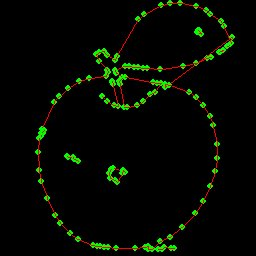
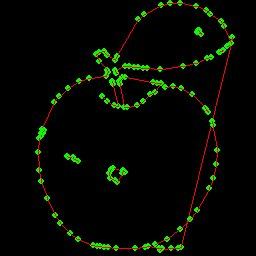
now includes fancy voroni/delaune (?) graph thing

Changed region(s): [[0.5625, 0.125, 0.9375, 1.0], [0.7188, 0.25, 0.7812, 0.2812], [0.7812, 0.2188, 0.8125, 0.25]]

diff --git a/vectorize.py b/vectorize.py
@@ -28,6 +28,7 @@
 
 import sys
 def cw(text, curr, max):
+   '''console status output function'''
    print "%s [%3i] %i of %i   \r"%(text,100*curr/max,curr,max),
 
    if curr >= max-1:
@@ -36,7 +37,7 @@ def cw(text, curr, max):
    sys.stdout.flush()
 
 def show_image(display, img, reloc):
-
+      '''shifts images in display and adds the new one ; fifo-like'''
       w,h = 3,3
 
       d = display.get_size()
@@ -328,7 +329,7 @@ def blend(img1,img2):
    return img_out
 
 def addmul(img1,img2,m=1,n=1):
-   '''take max val for each pixel from each image'''
+   '''img1 *n + img2*m'''
    width,height = img1.get_size()
    img_out = pygame.Surface(img1.get_size())
    for y in range(0,height):
@@ -384,8 +385,7 @@ def find_pixel_with_color(img_in, color):
    return False
 
 def find_brightest_pixel(img_in):
-   '''returns the 1st coordinate of a pixel of specified color'''
-
+   '''returns the coordinate of brightest pixel found'''
 
    maxbr = 0
    maxpos = False
@@ -402,7 +402,7 @@ def find_brightest_pixel(img_in):
 
 
 def find_brightest_pixel_with_spiral(img_in,startpos,maxlen,startang):
-   '''returns the 1st coordinate of a pixel of specified color'''
+   '''returns the coordinate of brightest pixel in spiral described by startpos, maxlen, startang'''
    width,height = img_in.get_size()
 
    maxbr = 0
@@ -452,13 +452,23 @@ def floodfill(img_in,startpos,color):
    return pixelcounter
 
 def id_to_color(id):
+   '''calculated unique color from id'''
    return (id%254+1,(id/254)%255,(id/254/255)%255)
 
+def angle_to_color(angle,length=1):
+   '''calculates color based on anlge'''
+   r = int(lcol( (math.sin(angle*2*math.pi/360)+1)*0.5*255*length ))
+   g = int(lcol( (math.sin((angle+120)*2*math.pi/360)+1)*0.5*255*length ))
+   b = int(lcol( (math.sin((angle+240)*2*math.pi/360)+1)*0.5*255*length ))
+   return [r,g,b]
+
 def color_to_id(color):
+   '''calculated unique id from color'''
    return color[0]-1 + color[1]*255 + color[2]*255*255
 
 
 def mask(img_in, color_mask):
+   '''create mask (if color at pixel = function parameter white, else black)'''
    width,height = img_in.get_size()
    img_out = pygame.Surface(img_in.get_size())
    for y in range(0,height):
@@ -473,6 +483,7 @@ def mask(img_in, color_mask):
    return img_out
 
 def get_avg_color(img_in, mask):
+   '''get average color for mask area'''
    width,height = img_in.get_size()
    color_avg_sum = [0,0,0]
    color_avg_cnt = 0
@@ -490,14 +501,14 @@ def get_avg_color(img_in, mask):
    return [color_avg_sum[0]/color_avg_cnt, color_avg_sum[1]/color_avg_cnt, color_avg_sum[2]/color_avg_cnt]
 
 
-
-
 def gen_single_color(size, color):
+   '''generates image with single color'''
    img_out = pygame.Surface(size)
    img_out.fill(color)
    return img_out
 
 def multiply(img_in1, img_in2):
+   '''img1 * img2'''
    width,height = img_in1.get_size()
    img_out = pygame.Surface(img_in1.get_size())
    for y in range(0,height):
@@ -542,7 +553,7 @@ def motionprobe(img_in,mask,pos,radius,angle,shift):
    return correlation_sum/correlation_count
 
 def motionfind(img_in,mask,pos,radius):
-
+   '''for one pos, run motionprobe for different angles/shifts'''
 
    cor_list = []
 
@@ -594,8 +605,6 @@ def motionsfind(img_in, mask, radius):
 def edgewalk(img):
    '''in image showing edges, walks along the edge and creates a polygon path'''
 
-
-
    img_clone = pygame.Surface(img.get_size())
    img_clone.blit(img,(0,0))
 
@@ -621,12 +630,12 @@ def edgewalk(img):
          position, br = find_brightest_pixel_with_spiral(img_clone,position,radius+3,angle2)
          if not position or br < brightness_min:
             break
-         lastdistance = math.pow(math.pow(position[0]-path[-1][0],2) + math.pow(position[1]-path[-1][1],2),0.5)
-         lastangle = 360
-         if len(path)>1:
-            angle1 = math.atan2(position[1]-path[-1][1],position[0]-path[-1][0])
+         #lastdistance = math.pow(math.pow(position[0]-path[-1][0],2) + math.pow(position[1]-path[-1][1],2),0.5)
+         #lastangle = 360
+         #if len(path)>1:
+         #   angle1 = math.atan2(position[1]-path[-1][1],position[0]-path[-1][0])
             angle2 = math.atan2(path[-1][1]-path[-2][1],path[-1][0]-path[-2][0])
-            lastangle = abs(angle1-angle2)*float(360)/(2*math.pi)
+         #   lastangle = abs(angle1-angle2)*float(360)/(2*math.pi)
             
          
          #if float(lastdistance)*lastangle > 1:
@@ -648,7 +657,82 @@ def edgewalk(img):
 
    return paths
 
+
+# for now returns the nearest vector. todo: interpolate 3 nearest points.
+def interpolate_motionvectors(motionvectors, position):
+   '''interpolates the given motion vectors for a specified target position'''
+
+   mindist = False
+   minvec = False
+   for v in motionvectors:
+      x,y = v[0]
+      distance = math.pow(math.pow(position[0]-x,2) + math.pow(position[1]-y,2),0.5)
+
+      if not mindist or distance < mindist :
+         mindist = distance
+         minvec = v
+
+   return minvec
+
+def motionvector_rainbow(motionvectors,size):
+   img = pygame.Surface(size)
+   
+   for y in range(0,size[1]):
+      cw("botionvector rainbow",y,size[1])
+      for x in range(0,size[0]):
+         v = interpolate_motionvectors(motionvectors,(x,y))
+         angle = v[1]
+         ampl = v[-1]
+         color = angle_to_color(angle,ampl)
+         img.set_at((x,y),color)
+   return img
+
+
+def facewalk(img_in, mask, motionvectors):
+   '''trace hatching paths'''
+   mask_clone = pygame.Surface(mask.get_size())
+   mask_clone.blit(mask,(0,0))
+
+   radius = 3
+
+   paths = []
+
+   width, height = mask_clone.get_size()
+
+   while True:
+      path = []
+      position = find_pixel_with_color(mask_clone,(255,255,255))
+      if not position:
+         break
+
+      path.append(position)
+
+      mask_clone.set_at(position,(0,0,0)) # deactivate pixel
+      # now, find next pixel
+      while True:
+         vector = interpolate_motionvectors(motionvectors,position)
+         angle = vector[1]
+         #print "!!!",vector
+         dp = [math.cos(angle*2*math.pi/360)*radius,math.sin(angle*2*math.pi/360)*radius]
+         position = [position[0]+int(dp[0]),position[1]+int(dp[1])]
+
+         if position[0]<0 or position[0]>width-1 or position[1]<0 or position[1]>height-1:
+            break
+         if mask_clone.get_at(position) == (0,0,0):
+            break
+         path.append(position)
+         mask_clone.set_at(position,(0,0,0))
+         #pygame.draw.circle(img_clone, (0,0,0), position, radius, 0)
+
+
+
+      paths.append(path)
+   return paths
+
+
+
 def optimizepaths(paths):
+   '''removes redundant polygon points, decrease count, increase error '''
    newpaths = []
    for path in paths:
       newpath = []
@@ -667,6 +751,7 @@ def optimizepaths(paths):
    return newpaths
 
 def pathcombiner(paths):
+   '''for all given paths, combine them if possible to reduce number and increase length'''
    # now we could check each start/end of every path and combine the two paths if they are closer together than a threshold
    # if start/end of same path are together closer than threshold but not equal, add first point to end to close the path
 
@@ -720,7 +805,6 @@ def pathcombiner(paths):
          if redo:
             break
 
-
       if not redo:
          newpaths = []
          for path in paths:
@@ -732,6 +816,7 @@ def pathcombiner(paths):
 
 
 def main():
+   '''main routine'''
    if len(sys.argv)==2: # 1 parameters
 
       pygame.init()
@@ -897,9 +982,12 @@ def main():
       motionvector_drawtmp = pygame.Surface(img_bnw.get_size())
 
 
+      motionvectorss = []
       for i in range(0,facecount):
          print "motion vector face %i"%i
          motionvectors = motionsfind(img_in, bolden(masks[i],5),10) # 10px radius
+         motionvectorss.append(motionvectors)
+
 
 
 
@@ -928,9 +1016,10 @@ def main():
 
             rel_cor = float(cor)/float(cormax)
             rel_corvar = float(corvar)/float(corvar_max)
+            ofs=ofs*(1-rel_cor) * rel_corvar
+            vector.append(ofs)
 
-            ofs=ofs*(1-rel_cor)*5 * rel_corvar
-
+            ofs+=5
 
             if ofs>0:
                endpos = math.cos(ang*2*math.pi/360)*ofs+pos[0],math.sin(ang*2*math.pi/360)*ofs+pos[1]
@@ -938,10 +1027,38 @@ def main():
 
          show_image(display, motionvector_drawtmp, True)
       save_image(motionvector_drawtmp,"vector-"+sys.argv[1])
+
+
+      combv = []
+      for motionvectors in motionvectorss:
+         combv+=motionvectors
+      motionvector_r = motionvector_rainbow(combv,img_bnw.get_size())
+      show_image(display, motionvector_r, True)
+      save_image(motionvector_r,"vectom-"+sys.argv[1])
+
      
 
 
       # 6. generate strokes/hatching for each area. it is not necessary to know the area outline as polygon, just check the individual pixels
+
+      strokepathss = []
+      for i in range(0,len(masks)):
+         strokepaths = facewalk(img_in, masks[i], motionvectorss[i])
+         img_strokepath = pygame.Surface(img_in.get_size())
+         for polygon in strokepaths:
+            lastpoint = False
+            if len(polygon)>1:
+               for point in polygon:
+                  if not lastpoint:
+                     lastpoint = point
+                  pygame.draw.circle(img_strokepath, (0,255,0),point, 3)
+                  pygame.draw.line(img_strokepath, (255,0,0), lastpoint, point, 1)
+                  lastpoint = point
+         strokepathss.append(strokepaths)
+
+         show_image(display, img_strokepath, True)
+         save_image(img_strokepath,"fpath-"+sys.argv[1])
+
 
       # todo.
 
